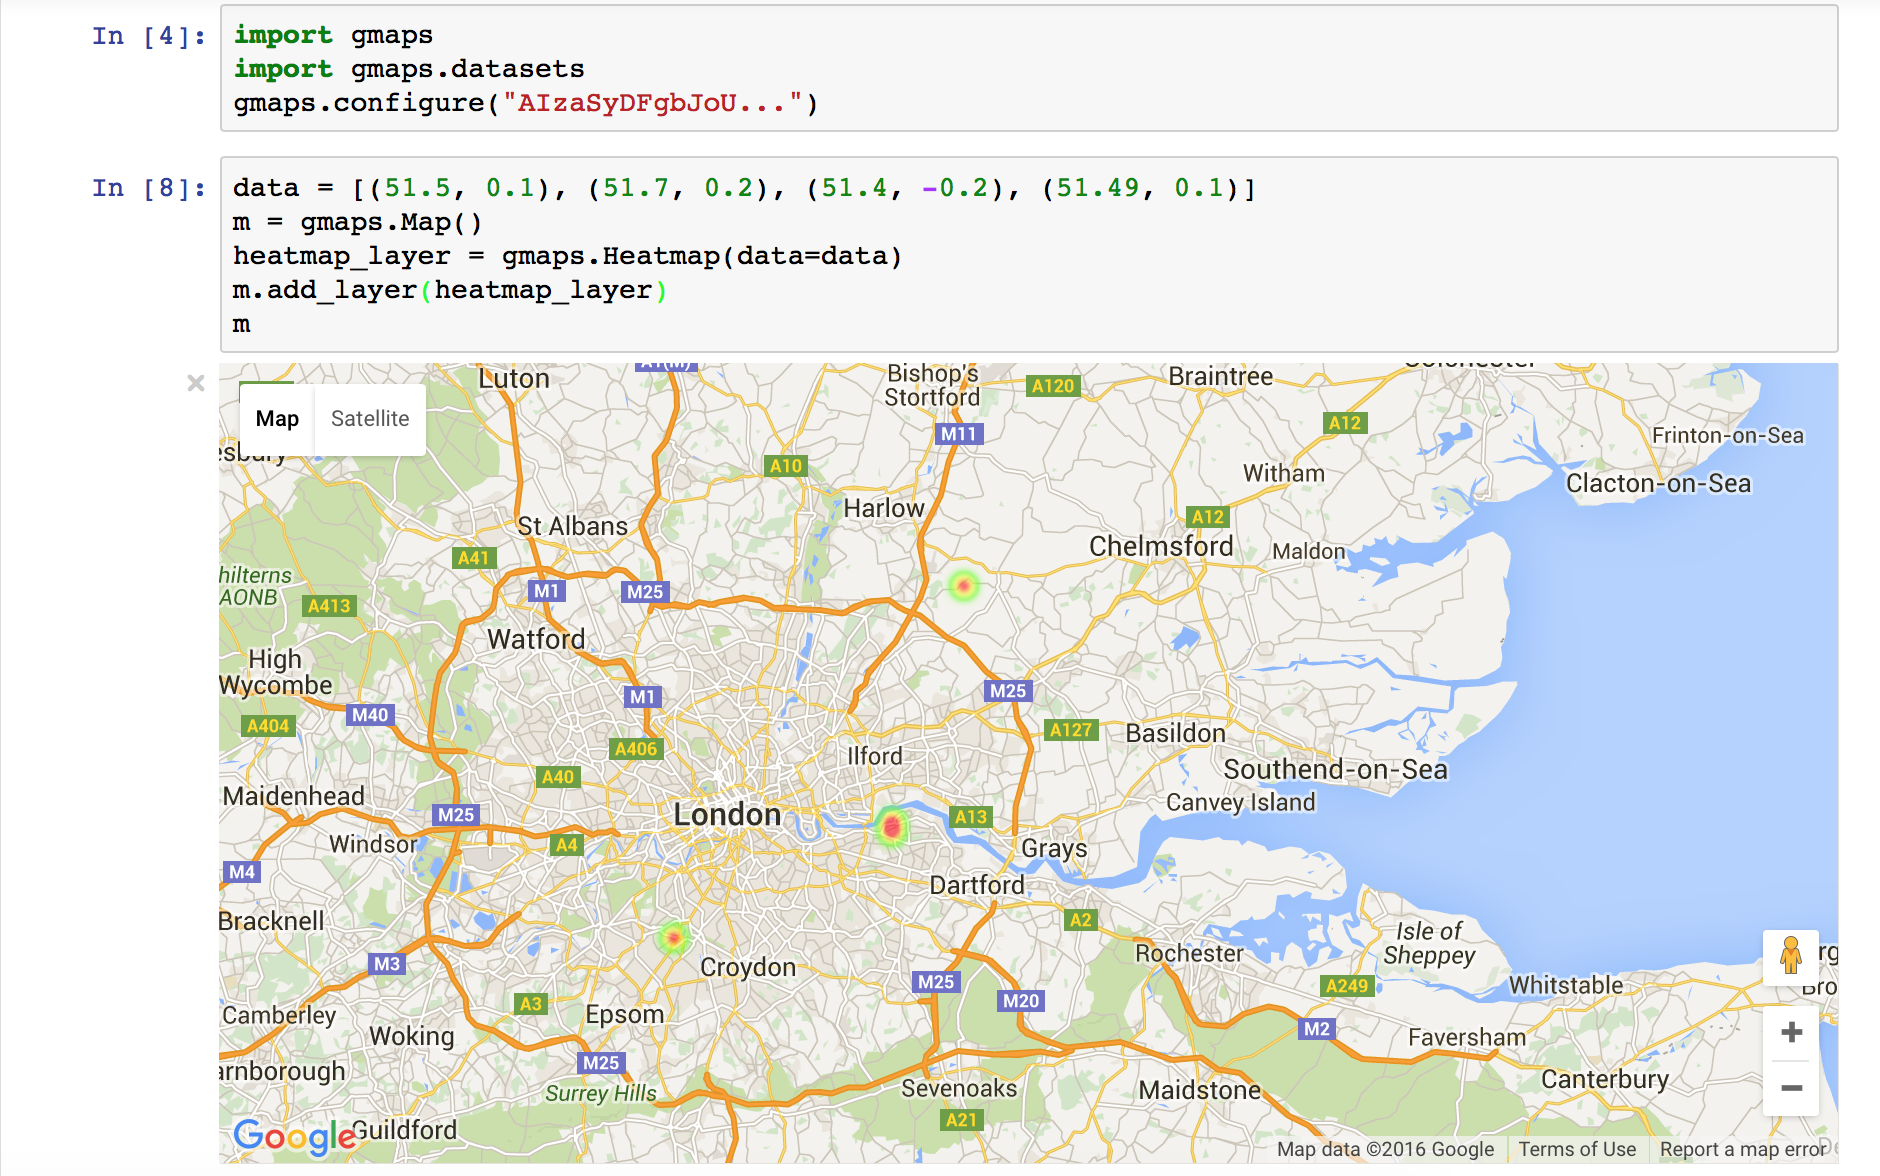
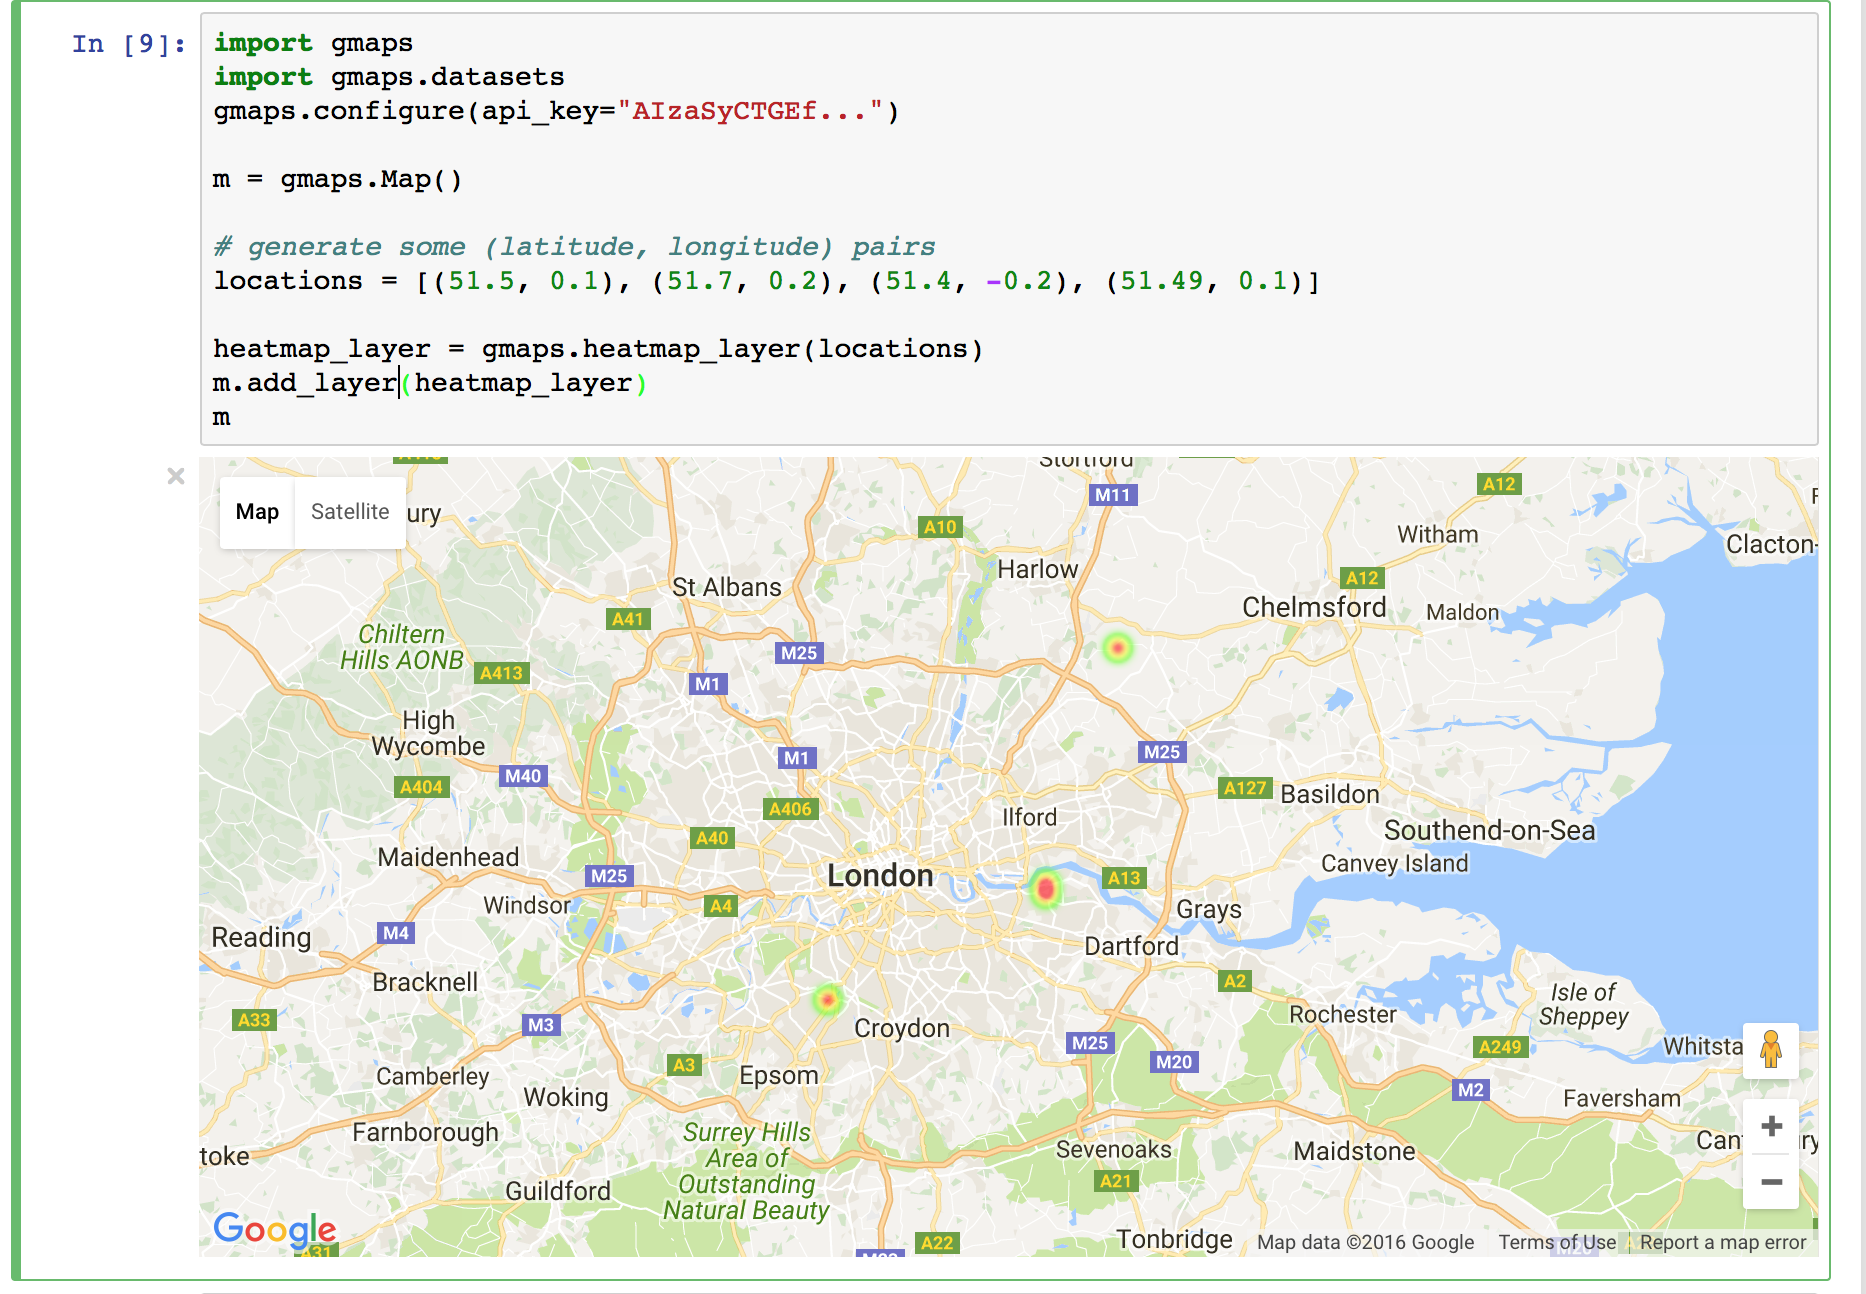
Start adapting tutorial for factory methods

diff --git a/docs/source/gmaps.rst b/docs/source/gmaps.rst
@@ -11,14 +11,15 @@ To demonstrate `gmaps`, let's plot the earthquake dataset, included in the packa
 
   gmaps.configure(api_key="AI...") # Fill in with your API key
 
-  earthquake_data = gmaps.datasets.load_dataset("earthquakes")
+  earthquake_df = gmaps.datasets.load_dataset_as_df("earthquakes")
+  earthquake_df.head()
 
-  print(earthquake_data[:4]) # first four rows
+The earthquake data has three columns: a latitude and longitude indicating the earthquake's epicentre and a weight denoting the magnitude of the earthquake at that point. Let's plot the earthquakes on a Google map::
 
-The earthquake data is a list of triples: a latitude and longitude indicating the earthquake's epicentre and a weight denoting the magnitude of the earthquake at that point. Let's plot the earthquakes on a Google map::
-
+  locations = earthquake_df[["latitude", "longitude"]]
+  weights = earthquake_df["magnitude"]
   m = gmaps.Map()
-  m.add_layer(gmaps.WeightedHeatmap(data=earthquake_data))
+  m.add_layer(gmaps.heatmap_layer(locations, weights=weights))
   m
 
 .. image:: tutorial-earthquakes.*
@@ -46,23 +47,25 @@ You then add layers on top of the base map. For instance, to add a heatmap layer
 
   m = gmaps.Map()
 
-  # generate some data
-  data = [(51.5, 0.1), (51.7, 0.2), (51.4, -0.2), (51.49, 0.1)]
+  # generate some (latitude, longitude) pairs
+  locations = [(51.5, 0.1), (51.7, 0.2), (51.4, -0.2), (51.49, 0.1)]
 
-  heatmap_layer = gmaps.Heatmap(data=data)
+  heatmap_layer = gmaps.heatmap_layer(locations)
   m.add_layer(heatmap_layer)
   m
 
 .. image:: plainmap3.*
 
+The `locations` array can either be a list of tuples, as in the example above, a numpy array of shape $N \times 2$ or a dataframe with two columns.
+
 Attributes on the base map and the layers can be set through named arguments in the constructor or as instance attributes once the instance is created. These two constructions are thus equivalent::
 
-  heatmap_layer = gmaps.Heatmap(data=data)
+  heatmap_layer = gmaps.heatmap_layer(locations)
   heatmap_layer.point_radius = 8
 
 and::
 
-  heatmap_layer = gmaps.Heatmap(data=data, point_radius=8)
+  heatmap_layer = gmaps.heatmap_layer(locations, point_radius=8)
 
 The former construction is useful for modifying a map once it has been built. Any change in parameters will propagate to maps in which those layers are included.
 
